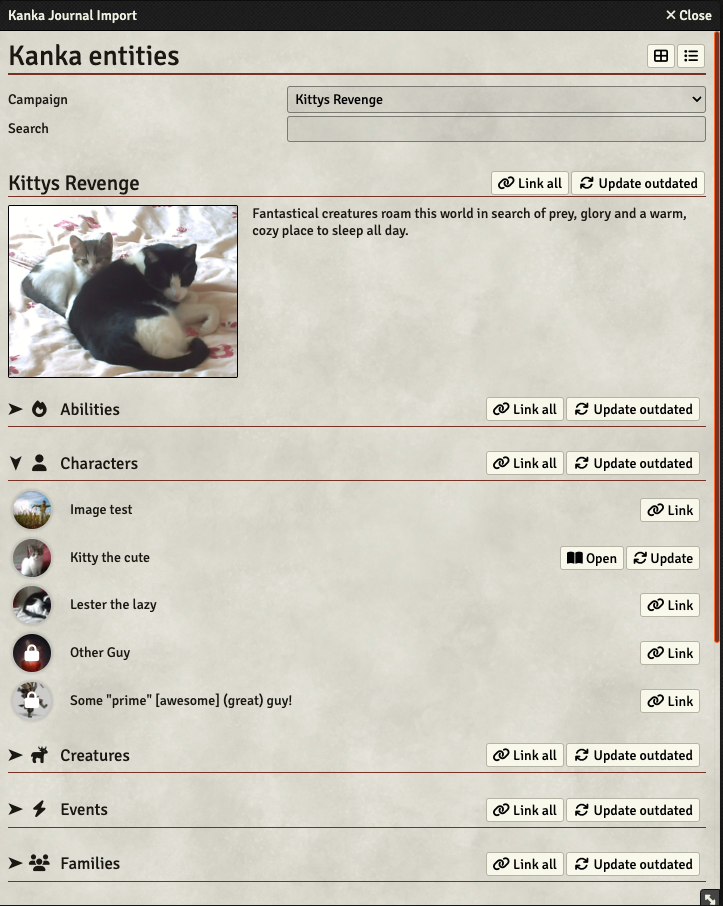
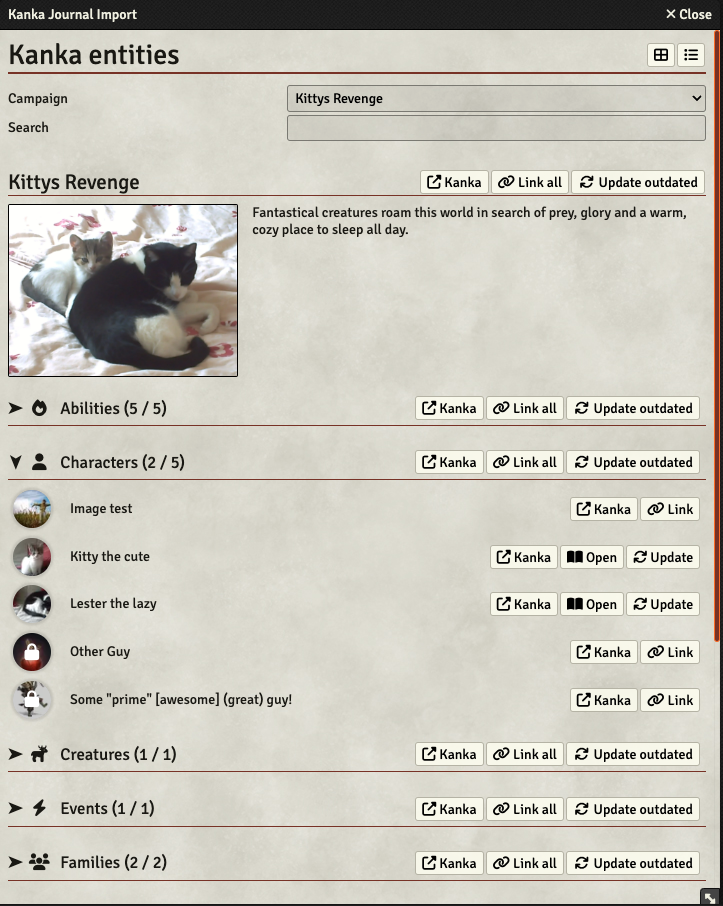
feat: add linked and total entity count to Kanka Browser application for each type

diff --git a/src/apps/KankaBrowser/KankaBrowserApplication.ts b/src/apps/KankaBrowser/KankaBrowserApplication.ts
@@ -30,6 +30,12 @@ interface TemplateData {
     },
 }
 
+type TypeMetaData = {
+    count: number,
+    countLinked: number,
+    entities: KankaApiEntity[]
+};
+
 const entityTypes: Partial<Record<EntityType, { icon: string }>> = {
     [EntityType.ability]: {
         icon: 'fa-fire',
@@ -116,6 +122,20 @@ export default class KankaBrowserApplication extends Application {
                 };
             });
 
+        const groupedEntities = groupBy(this.#entities ?? [], 'type');
+        const groupedEntitiesWithMetaData: Record<string, TypeMetaData> = {};
+
+        Array
+            .from(groupedEntities.entries())
+            .sort(([a], [b]) => a[0].localeCompare(b[0]))
+            .forEach(([type, entities]) => {
+                groupedEntitiesWithMetaData[type] = {
+                    entities,
+                    count: entities.length,
+                    countLinked: entities.filter(e => !!findEntryByEntityId(e.id)).length,
+                };
+            });
+
         return {
             ...super.getData(),
             campaign: this.#campaign ?? { id: 0 },
@@ -123,6 +143,7 @@ export default class KankaBrowserApplication extends Application {
             campaigns: (this.#campaigns ?? []).reduce((choices, { id, name }) => ({ ...choices, [String(id)]: name }), { 0: '-- Please choose --' }),
             currentFilter: this.#currentFilter,
             typeConfig,
+            entities: groupedEntitiesWithMetaData,
             data: this.#entities,
             deletedEntries: this.deletedSnapshots,
             settings: {
